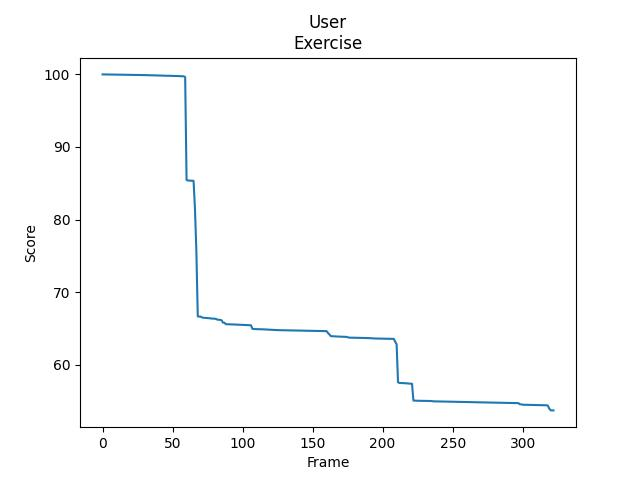
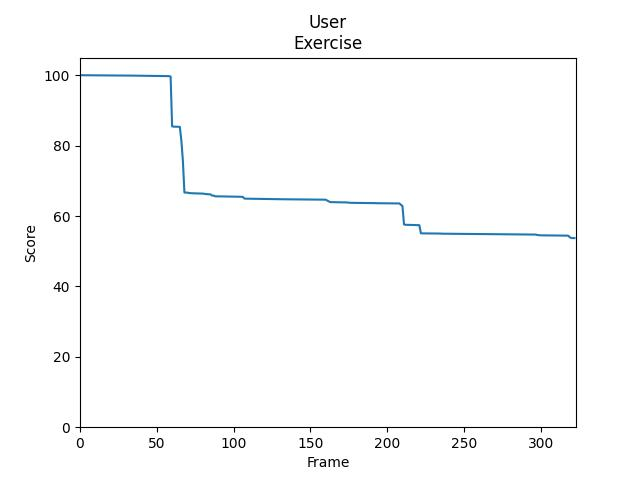
Add dir creation

diff --git a/PITAWebserver/PITAScoring/scoring_algo.py b/PITAWebserver/PITAScoring/scoring_algo.py
@@ -3,7 +3,7 @@ import numpy as np
 import pandas as pd
 import matplotlib.pyplot as plt
 import sys
-
+import os
 
 # sample code for the scoring algorithm
 
@@ -151,21 +151,27 @@ def run(url1, url2):
     user_body = normalize(user_body, trainer_body)
     username = "User"
     exercise = "Exercise"
-    if len(sys.argv) > 1:
-        username = sys.argv[1]
-        exercise = sys.argv[2]
+    if len(sys.argv) > 2:
+        username = sys.argv[2]
+        exercise = sys.argv[3]
     plt.plot(range(np.shape(user_body)[1]), scoring(user_body, trainer_body))
     plt.title(f"{username}\n{exercise}")
     plt.xlabel("Frame")
     plt.ylabel("Score")
     plt.xlim(0, np.shape(user_body)[1])
     plt.ylim(0, 105)
-    plt.savefig("output.jpg")
+
+    path = f"Graphs/{username}"
+    if not os.path.exists(path):
+        os.makedirs(path)
+    path = f"Graphs/{username}/{exercise}.png"
+    plt.savefig(f"Graphs/{username}/{exercise}.png")
     plt.show()
-    return scoring(user_body, trainer_body)
+
+    return path
 
 
 if __name__ == '__main__':
     url1 = "https://raw.githubusercontent.com/ramzes-hk/datadump/main/BicepRefernce.csv"
     url2 = "https://raw.githubusercontent.com/ramzes-hk/datadump/main/Bicep2.csv"
-    print(run(url1, url2))
+    run(url1, url2)
